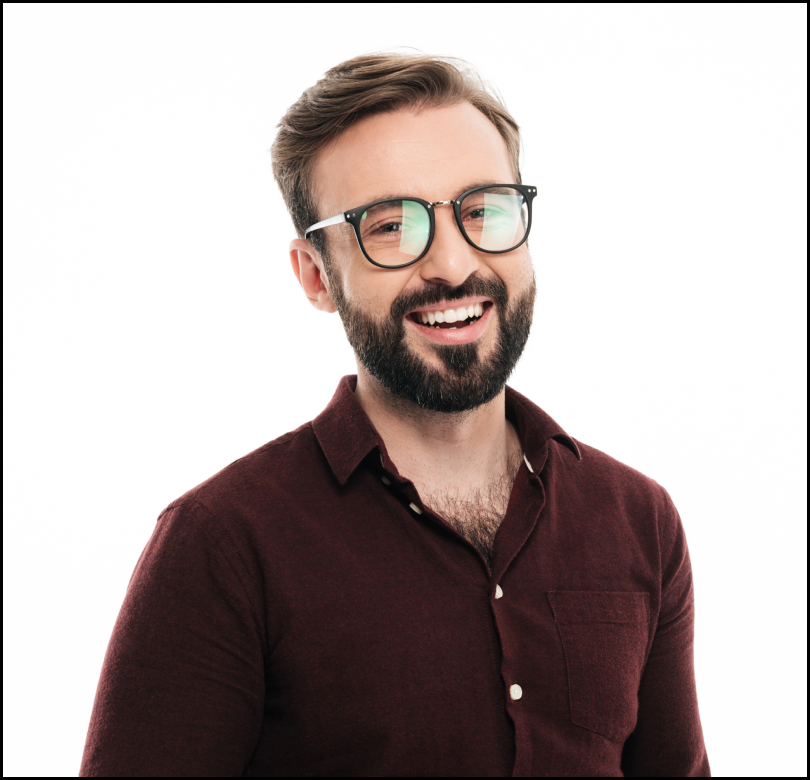
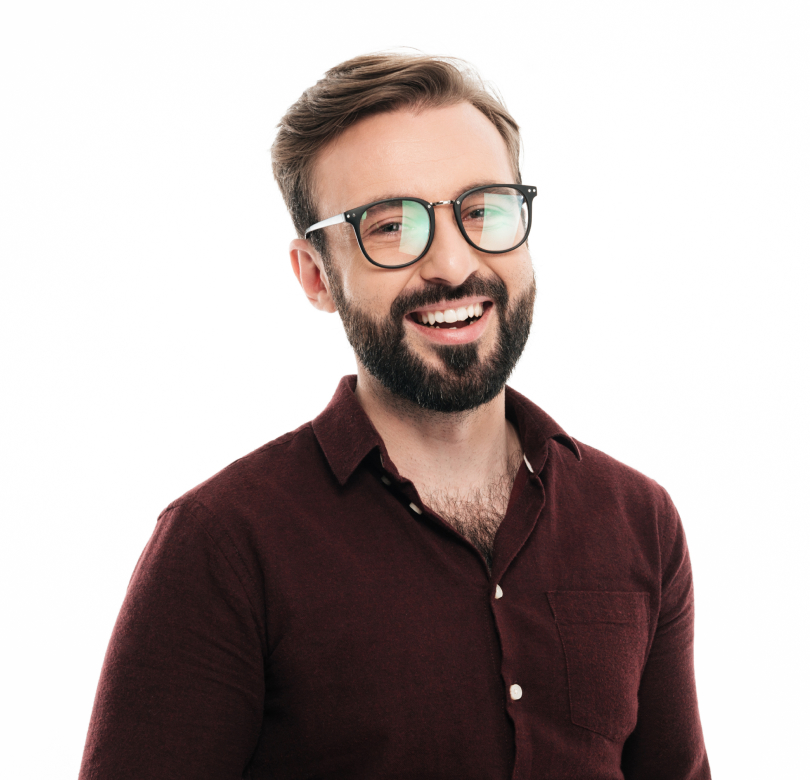
Revised after the mentor's remarks 2
1. In section "What we do" i change dimensions from 130 to 370 and added height 294.
2. I save foto Igor without frame/
3. I make adress in footer - link <a>

Changed region(s): [[0.0, 0.0, 1.0, 1.0], [0.4321, 0.9846, 0.7716, 1.0]]

diff --git a/index.html b/index.html
@@ -65,13 +65,13 @@
         <h2>Чем мы занимаемся</h2>
         <ul>
             <li>
-                <img src="./images/img-1-whatwedo.jpg" lang="en" alt="Someone print keyboard" width="130"> 
+                <img src="./images/img-1-whatwedo.jpg" lang="en" alt="Someone print keyboard" width="370" height="294"> 
             </li>
             <li> 
-                <img src="./images/img-3-whatwedo.jpg" lang="en" alt="Someone work with telefone and notebook" width="130">
+                <img src="./images/img-3-whatwedo.jpg" lang="en" alt="Someone work with telefone and notebook" width="370" height="294">
             </li>
             <li>
-                <img src="./images/img-2-whatwedo.jpg" lang="en" alt="Someone work with tablet" width="130">
+                <img src="./images/img-2-whatwedo.jpg" lang="en" alt="Someone work with tablet" width="370" height="294">
             </li>
         </ul>
         </section>
@@ -109,7 +109,7 @@
              <a href="">WebStudio</a>
               <address>
                    <ul>
-                      <li><p>г. Киев, пр-т Леси Украинки, 26</p></li>
+                      <li><a href="">г. Киев, пр-т Леси Украинки, 26</a></li>
                       <li><a href="mailto:info@devstudio.com">info@devstudio.com</a></li>
                       <li><a href="tel:+380961111111">+38 096 111 11 11</a></li>
                    </ul>
